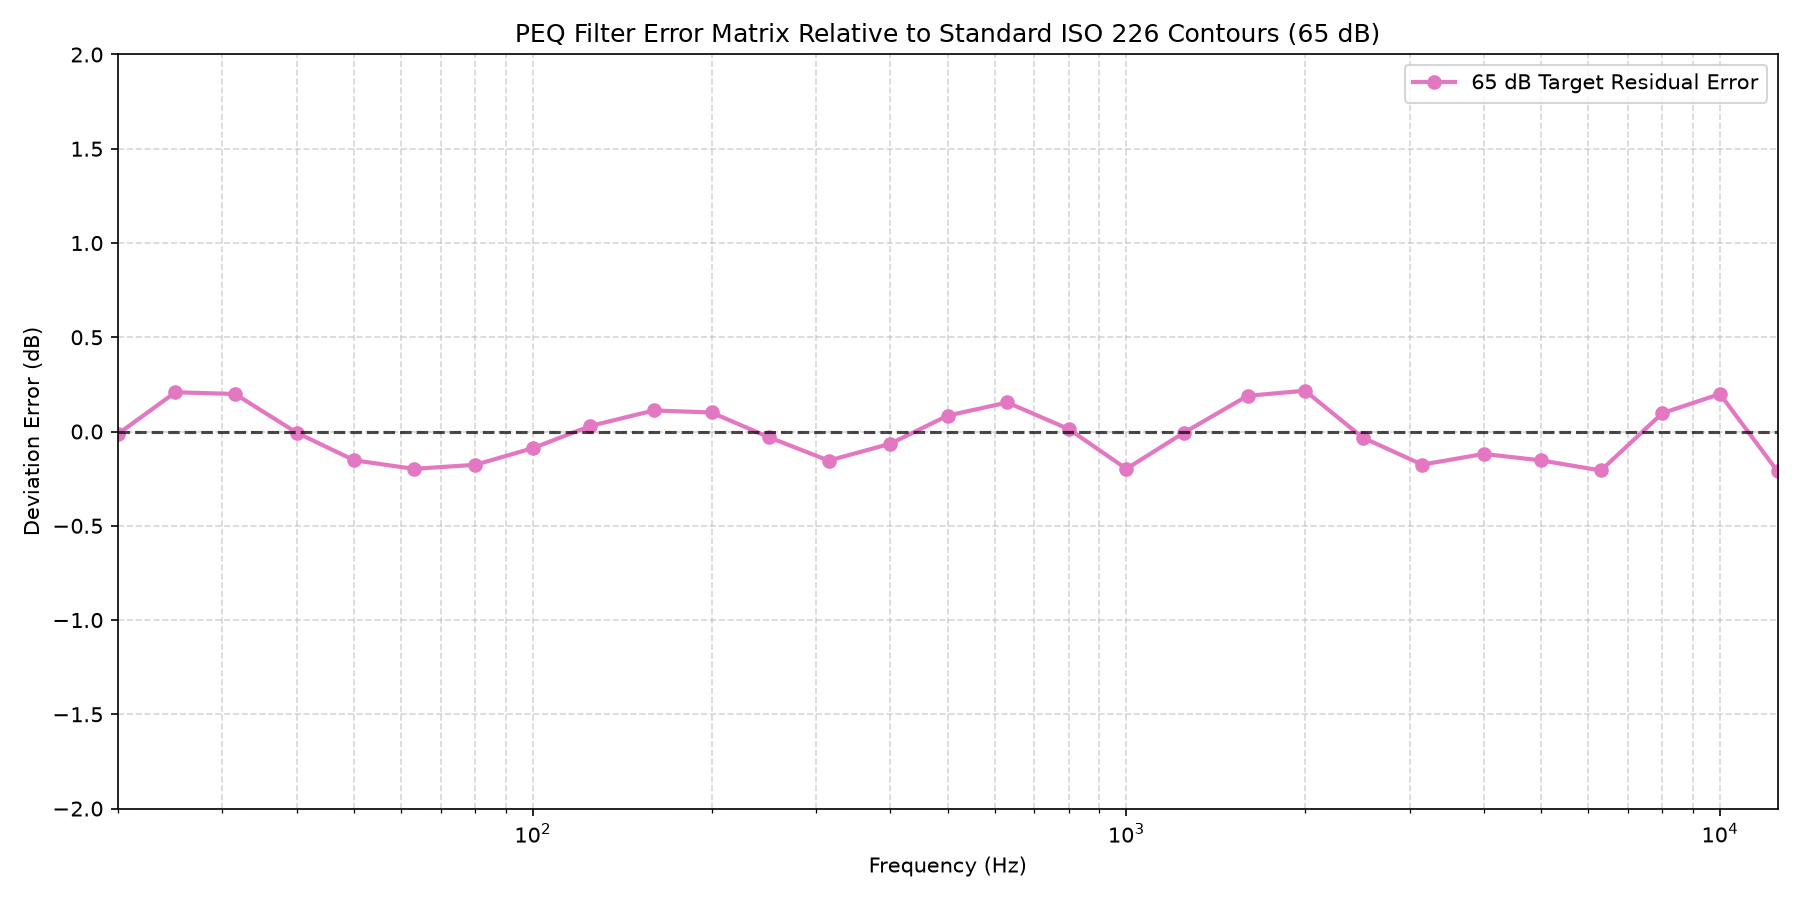
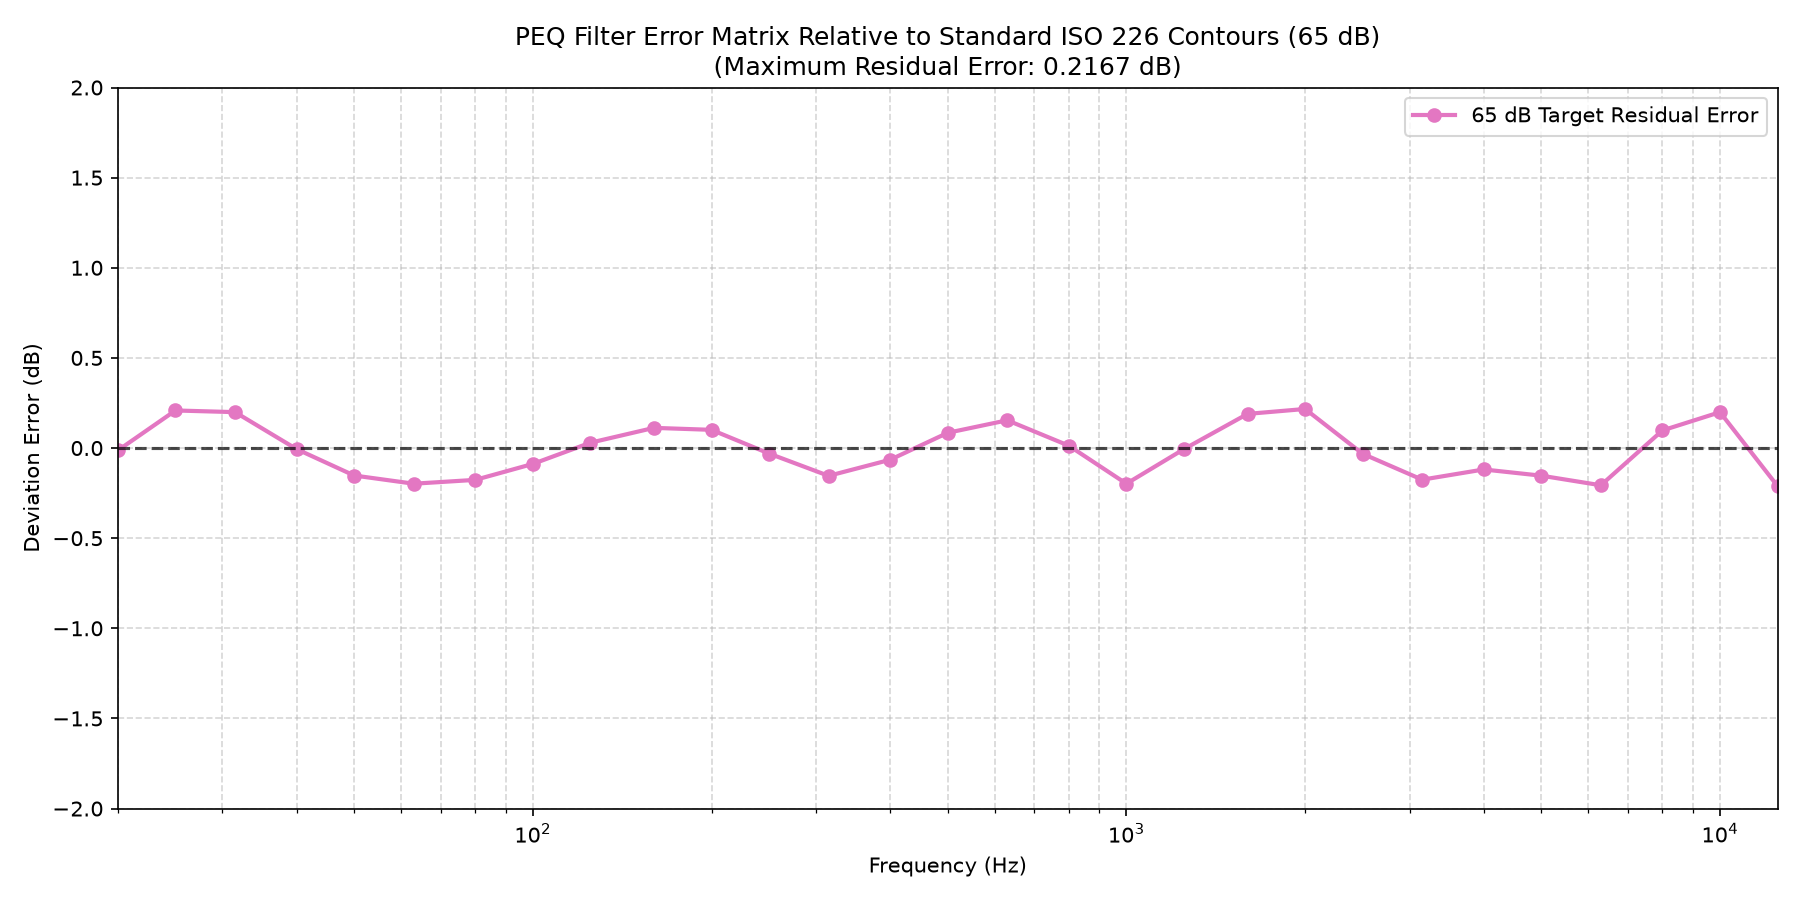
desc

diff --git a/check.py b/check.py
@@ -99,7 +99,9 @@ def main():
         color='#e377c2', linewidth=2
     )
     plt.axhline(0, color='black', linestyle='--', alpha=0.7)
-    plt.title(f'PEQ Filter Error Matrix Relative to Standard ISO 226 Contours ({level_str} dB)')
+    title_str = f'PEQ Filter Error Matrix Relative to Standard ISO 226 Contours ({level_str} dB)'
+    title_str += f'\n(Maximum Residual Error: {max_error:.4f} dB)'
+    plt.title(title_str)
     plt.xlabel('Frequency (Hz)')
     plt.ylabel('Deviation Error (dB)')
     plt.grid(True, which='both', linestyle='--', alpha=0.5)
